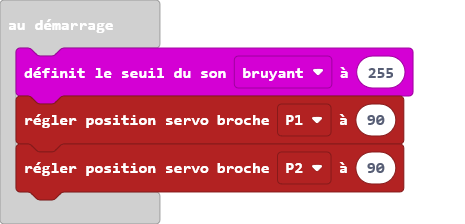
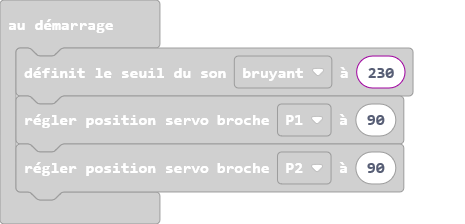
Mise à jour pxt.json, main.blocks, main.ts, main.py

diff --git a/main.ts b/main.ts
@@ -34,6 +34,6 @@ input.onLogoEvent(TouchButtonEvent.Pressed, function () {
     pins.servoWritePin(AnalogPin.P1, 90)
     pins.servoWritePin(AnalogPin.P2, 90)
 })
-input.setSoundThreshold(SoundThreshold.Loud, 255)
+input.setSoundThreshold(SoundThreshold.Loud, 230)
 pins.servoWritePin(AnalogPin.P1, 90)
 pins.servoWritePin(AnalogPin.P2, 90)

diff --git a/main.py b/main.py
@@ -1,0 +1,44 @@
+def on_sound_loud():
+    basic.pause(200)
+    pins.servo_write_pin(AnalogPin.P1, 0)
+    pins.servo_write_pin(AnalogPin.P2, 0)
+    basic.pause(1000)
+    pins.servo_write_pin(AnalogPin.P1, 90)
+    pins.servo_write_pin(AnalogPin.P2, 90)
+input.on_sound(DetectedSound.LOUD, on_sound_loud)
+
+def on_button_pressed_a():
+    basic.pause(500)
+    pins.servo_write_pin(AnalogPin.P1, 180)
+    pins.servo_write_pin(AnalogPin.P2, 0)
+    basic.pause(2000)
+    pins.servo_write_pin(AnalogPin.P1, 90)
+    pins.servo_write_pin(AnalogPin.P2, 90)
+input.on_button_pressed(Button.A, on_button_pressed_a)
+
+def on_button_pressed_ab():
+    pins.servo_write_pin(AnalogPin.P1, 90)
+    pins.servo_write_pin(AnalogPin.P2, 90)
+input.on_button_pressed(Button.AB, on_button_pressed_ab)
+
+def on_button_pressed_b():
+    basic.pause(500)
+    pins.servo_write_pin(AnalogPin.P1, 0)
+    pins.servo_write_pin(AnalogPin.P2, 180)
+    basic.pause(2000)
+    pins.servo_write_pin(AnalogPin.P1, 90)
+    pins.servo_write_pin(AnalogPin.P2, 90)
+input.on_button_pressed(Button.B, on_button_pressed_b)
+
+def on_logo_pressed():
+    basic.pause(500)
+    pins.servo_write_pin(AnalogPin.P1, 180)
+    pins.servo_write_pin(AnalogPin.P2, 180)
+    basic.pause(1000)
+    pins.servo_write_pin(AnalogPin.P1, 90)
+    pins.servo_write_pin(AnalogPin.P2, 90)
+input.on_logo_event(TouchButtonEvent.PRESSED, on_logo_pressed)
+
+input.set_sound_threshold(SoundThreshold.LOUD, 230)
+pins.servo_write_pin(AnalogPin.P1, 90)
+pins.servo_write_pin(AnalogPin.P2, 90)
